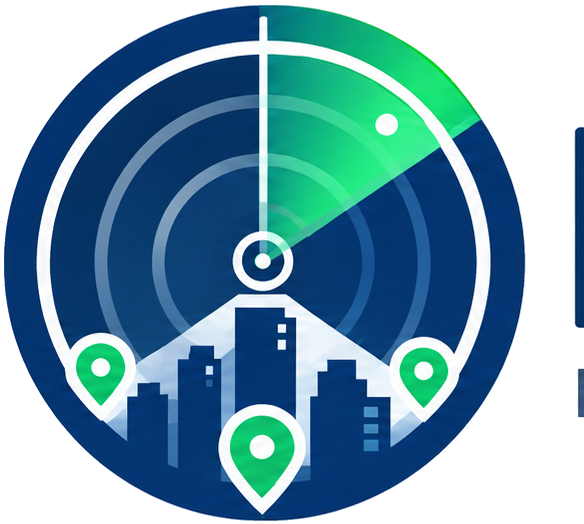
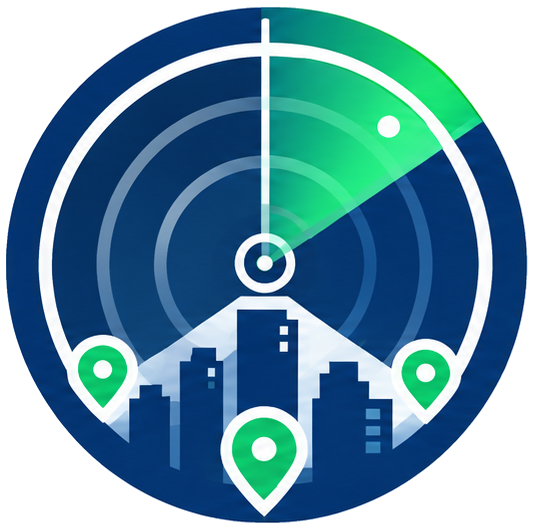
Remove linha residual do ícone e centraliza o texto da marca
O recorte do ícone incluía por engano um fragmento da linha divisória
que existia entre o emblema e o texto na arte original. Recorte
ajustado para parar exatamente na borda do círculo. "Radar Hub" e o
subtítulo agora ficam centralizados abaixo do ícone.

diff --git a/apps/web/src/styles/app.css b/apps/web/src/styles/app.css
@@ -45,6 +45,7 @@
   letter-spacing: 0.3px;
   color: #fff;
   width: 100%;
+  text-align: center;
 }
 
 .brand-title span {
@@ -56,6 +57,7 @@
   font-weight: 600;
   color: rgba(255, 255, 255, 0.55);
   margin-top: 2px;
+  text-align: center;
 }
 
 .sidebar-close-btn {
